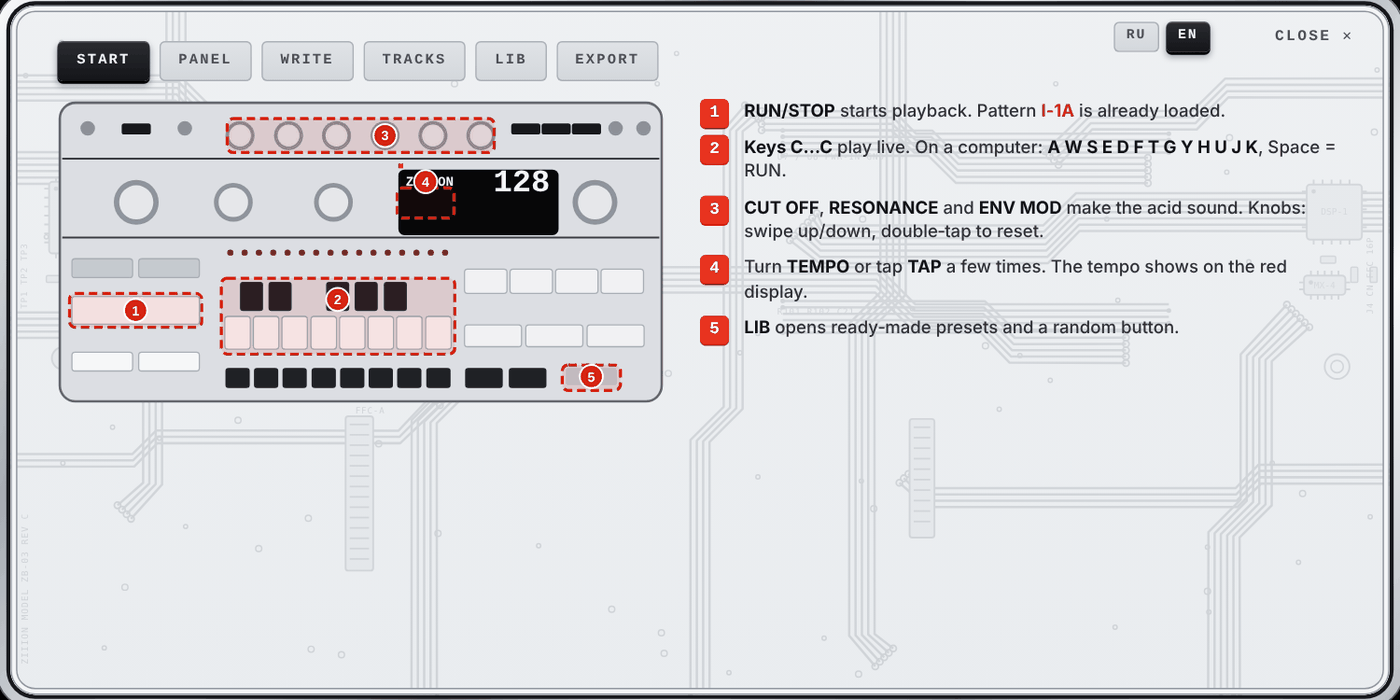
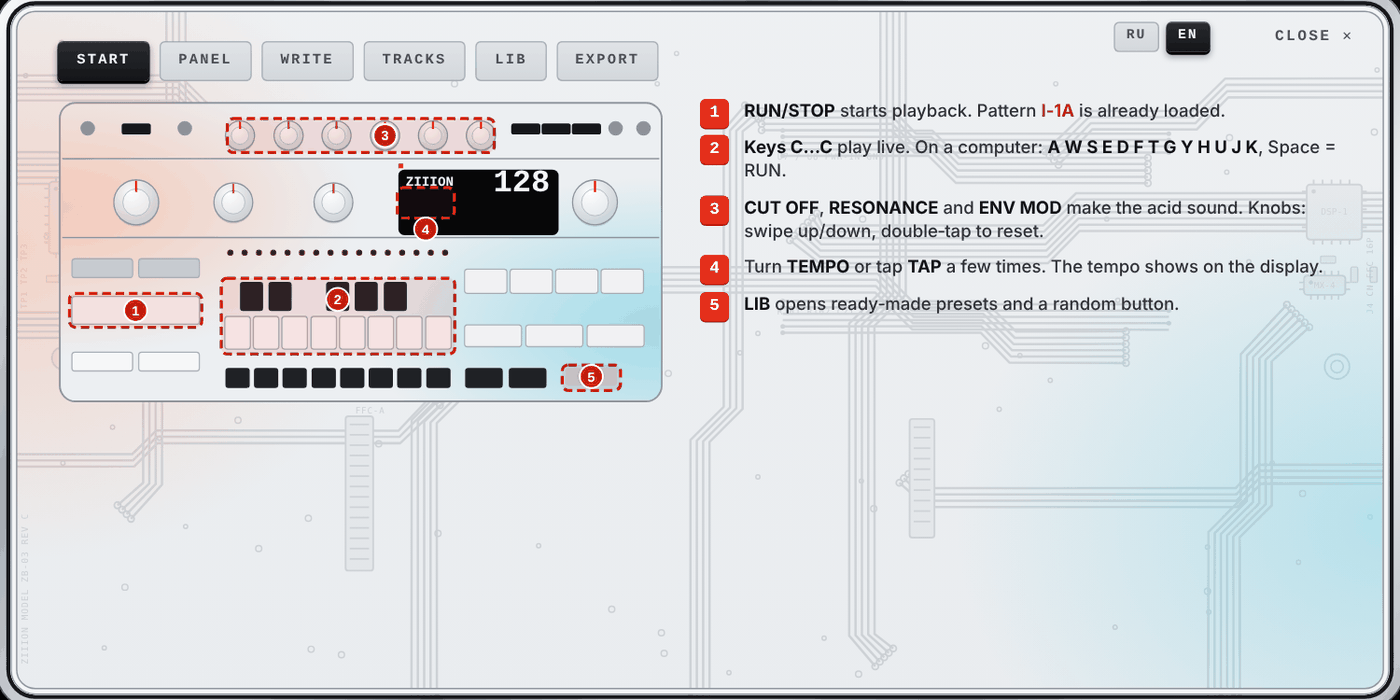
Add files via upload

Changed region(s): [[0.0, 0.12, 0.8293, 0.6], [0.7986, 0.48, 1.0, 0.99], [0.8907, 0.36, 0.9521, 0.39]]

diff --git a/index.html b/index.html
@@ -12,7 +12,7 @@
 <style>
 :root{--ink:#1d1f24;--ink2:#4a4f58;--line:#8d939c;--red:#e8321e;--led-off:#b9bdc4;
   --mono:ui-monospace,"SF Mono",Menlo,Consolas,"Courier New",monospace;--sans:"Helvetica Neue",Helvetica,Arial,sans-serif;
-  --pcb:none;--sheet:linear-gradient(rgba(240,242,244,.82),rgba(234,237,240,.82))}
+  --pcb:none;--sheet:radial-gradient(ellipse 40% 65% at 0% 35%,rgba(255,150,105,.3),rgba(255,150,105,0) 70%),radial-gradient(ellipse 45% 70% at 100% 75%,rgba(80,200,225,.34),rgba(80,200,225,0) 70%),linear-gradient(rgba(240,242,244,.8),rgba(234,237,240,.8))}
 *{box-sizing:border-box;-webkit-tap-highlight-color:transparent}
 html,body{margin:0;height:100%;background:#0b0c0f;overflow:hidden;overscroll-behavior:none;touch-action:none;
   user-select:none;-webkit-user-select:none;-webkit-touch-callout:none;font-family:var(--sans)}
@@ -45,7 +45,7 @@ html,body{margin:0;height:100%;background:#0b0c0f;overflow:hidden;overscroll-beh
 
 /* labels: technical mono, with a halo so the board never swallows them */
 .lab{position:absolute;white-space:nowrap;font:600 8.5px/1 var(--mono);letter-spacing:.06em;color:var(--ink);text-transform:uppercase;
-  pointer-events:none;transform:translate(-50%,-50%);text-shadow:0 0 2px #e6e9ec,0 0 2px #e6e9ec,0 0 4px #e6e9ec,0 0 6px #e6e9ec}
+  pointer-events:none;transform:translate(-50%,-50%);text-shadow:0 0 2px #eef0f3,0 0 2px #eef0f3,0 0 3px #eef0f3,0 0 4px #eef0f3,0 0 6px #eef0f3,0 0 8px #eef0f3}
 .lab.sm{font-size:8px;letter-spacing:.04em}
 .lab.lg{font-size:10px}
 .brk{position:absolute;border:1px solid var(--ink2);border-bottom:none;height:5px;pointer-events:none}
@@ -55,6 +55,11 @@ html,body{margin:0;height:100%;background:#0b0c0f;overflow:hidden;overscroll-beh
   box-shadow:0 0 0 2px #c3c7cd,0 0 0 3px #7e848d,0 3px 8px rgba(30,36,46,.35),inset 0 0 12px rgba(0,0,0,.9)}
 .dmglass{position:absolute;inset:0;border-radius:10px;
   background:linear-gradient(155deg,rgba(255,255,255,.16) 0%,rgba(255,255,255,0) 34%),linear-gradient(0deg,rgba(255,255,255,.04),rgba(255,255,255,0) 40%)}
+/* coloured edge light */
+#chassis::before{content:"";position:absolute;inset:0;pointer-events:none;border-radius:inherit;
+  background:radial-gradient(ellipse 45% 70% at 0% 35%,rgba(255,150,105,.38),rgba(255,150,105,0) 70%),
+    radial-gradient(ellipse 50% 75% at 100% 70%,rgba(80,200,225,.4),rgba(80,200,225,0) 70%),
+    radial-gradient(ellipse 30% 40% at 70% 0%,rgba(255,170,190,.22),rgba(255,170,190,0) 70%)}
 /* LEDs: small round dots, red when lit */
 .led{position:absolute;width:7px;height:7px;margin:-3.5px 0 0 -3.5px;border-radius:50%;background:var(--led-off);
   box-shadow:inset 0 0 0 1px #9fa5ad,0 0 0 2.5px rgba(232,235,238,.92)}
@@ -85,6 +90,14 @@ html,body{margin:0;height:100%;background:#0b0c0f;overflow:hidden;overscroll-beh
 .kgloss{position:absolute;inset:0;border-radius:50%;pointer-events:none;
   background:radial-gradient(ellipse 50% 30% at 36% 19%,rgba(255,255,255,.55),rgba(255,255,255,0) 70%)}
 .knob.active .kshadow{transform:translate(4%,7%)}
+/* glass knobs */
+.kbase{background:radial-gradient(circle,rgba(255,255,255,.0) 0,rgba(255,255,255,.0) 86%,rgba(120,130,142,.45) 92%,rgba(255,255,255,.7) 97%,rgba(0,0,0,0) 100%)}
+.kshadow{background:radial-gradient(circle,rgba(60,70,84,.2) 55%,rgba(0,0,0,0) 74%)}
+.kbody{background:radial-gradient(circle at 38% 28%,rgba(255,255,255,.75) 0%,rgba(236,240,244,.42) 45%,rgba(206,214,222,.38) 100%);
+  box-shadow:0 2px 5px rgba(50,60,72,.3),0 0 0 1px rgba(130,140,152,.85),inset 0 0 0 2px rgba(255,255,255,.75),inset 0 -5px 8px rgba(150,170,190,.35)}
+.kcap{inset:19%;background:radial-gradient(circle at 50% 50%,rgba(255,255,255,.1) 0 38%,rgba(255,255,255,.55) 40%,rgba(200,210,220,.3) 62%,rgba(255,255,255,.65) 100%);
+  box-shadow:inset 0 0 0 1px rgba(255,255,255,.9),inset 0 0 0 3px rgba(150,162,176,.28),0 1px 2px rgba(50,60,72,.3)}
+.kind{top:1%;width:5.5%;height:26%;background:linear-gradient(var(--red),#c82612)}
 /* buttons: flat matte pads */
 .btn{position:absolute;border-radius:7px;touch-action:none;cursor:pointer;display:flex;align-items:center;justify-content:center;
   font:700 12px/1 var(--mono);letter-spacing:.04em;color:var(--ink);
@@ -112,6 +125,12 @@ html,body{margin:0;height:100%;background:#0b0c0f;overflow:hidden;overscroll-beh
 .wkey.down{transform:translateY(3px);box-shadow:0 1px 0 #a4aab2,inset 0 0 0 1px #9aa0a8}
 .bkey.down{transform:translateY(3px);box-shadow:0 1px 0 #000,inset 0 0 0 1px #3a3d44}
 .slot{position:absolute;border-radius:6px;background:#cdd1d6;box-shadow:inset 0 1px 2px rgba(50,56,66,.35);pointer-events:none}
+
+/* contrast pass: light pads read clearly on the coloured sheet */
+.btn:not(.dark):not(.grey){background:linear-gradient(180deg,rgba(255,255,255,.95) 0%,rgba(244,246,248,.9) 55%,rgba(226,230,234,.9) 100%);
+  box-shadow:0 2px 0 #8d949d,0 4px 7px rgba(40,50,64,.34),inset 0 0 0 1px #8f969f,inset 0 1px 0 #fff}
+.btn:not(.dark):not(.grey).down{box-shadow:0 .5px 0 #8d949d,inset 0 0 0 1px #7f8690,inset 0 2px 4px rgba(40,50,64,.22)}
+.wkey{box-shadow:0 3px 0 #8d949d,0 5px 8px rgba(40,50,64,.3),inset 0 0 0 1px #9aa1aa}
 /* jacks & switches */
 .jack{position:absolute;width:24px;height:24px;margin:-12px 0 0 -12px;border-radius:50%;
   background:radial-gradient(circle at 38% 30%,#fbfbfc,#d4d7dc 60%,#aeb4bb);
@@ -186,7 +205,7 @@ html.lite .knob.st .krot{transition:none}
 #lib .gh{font:800 10px/1 var(--mono);letter-spacing:.24em;color:#4a4f58;margin:10px 0 7px}
 #lib .gr{display:grid;grid-template-columns:repeat(3,1fr);gap:8px}
 #lib .row{position:relative;display:flex;align-items:center;gap:10px;padding:8px 11px;border-radius:5px;cursor:pointer;
- background:linear-gradient(180deg,#f8f9fa,#eceef0);box-shadow:0 2px 0 #a8aeb6,0 3px 4px rgba(0,0,0,.25),inset 0 1px 0 rgba(255,255,255,.8)}
+ background:linear-gradient(180deg,rgba(255,255,255,.78),rgba(240,244,248,.55));box-shadow:0 0 0 1px rgba(255,255,255,.85),0 2px 6px rgba(60,72,88,.28),inset 0 1px 0 #fff,inset 0 -6px 10px rgba(150,170,190,.18)}
 #lib .row:active{transform:translateY(1px)}
 #lib .row.cur{background:linear-gradient(180deg,#2a2c31,#141518);box-shadow:0 2px 0 #000,0 3px 5px rgba(0,0,0,.4),inset 0 1px 0 rgba(255,255,255,.2)}
 #lib .rt{flex:1;min-width:0}
@@ -201,9 +220,12 @@ html.lite .knob.st .krot{transition:none}
 #lib .row.cur .mini i{background:#c9cbd6}#lib .row.cur .mini i.a{background:#ff6a52}#lib .row.cur .mini i.r{background:#6a6d80}#lib .row.cur .mini i.t{background:#9395a6}
 #lib .row u{text-decoration:none;color:#5f616a;font:400 18px/1 Arial;padding:4px 2px 4px 6px}
 #lib .row.cur u{color:#c9cbd6}
-#lib .ln{flex:1;min-width:0;padding:9px 11px;border-radius:4px;border:0;background:#a0a3ab;color:#1d1f24;font:700 16px/1.2 var(--sans);
- letter-spacing:.06em;box-shadow:inset 0 2px 4px rgba(0,0,0,.4),0 1px 0 rgba(255,255,255,.6);outline:none}
-#lib .ln::placeholder{color:#5f616a}
+#lib .ln{flex:1;min-width:0;padding:9px 11px;border-radius:4px;border:0;background:rgba(255,255,255,.55);color:#1d1f24;font:700 16px/1.2 var(--mono);
+ letter-spacing:.08em;box-shadow:0 0 0 1px rgba(143,149,158,.8),inset 0 2px 4px rgba(70,84,100,.22),0 1px 0 #fff;outline:none}
+#lib .ln::placeholder{color:#7b818b}
+#lib .lb,#lib .tg{background:linear-gradient(180deg,rgba(255,255,255,.85),rgba(236,241,246,.6));box-shadow:0 0 0 1px rgba(255,255,255,.85),0 2px 6px rgba(60,72,88,.3),inset 0 1px 0 #fff,inset 0 -5px 8px rgba(150,170,190,.18)}
+#lib .lb:active{box-shadow:0 0 0 1px rgba(255,255,255,.85),0 1px 2px rgba(60,72,88,.3),inset 0 1px 3px rgba(60,72,88,.25)}
+#lib .tg.on,#lib .lb.done{background:linear-gradient(180deg,#2a2c31,#141518);box-shadow:0 2px 6px rgba(0,0,0,.4),inset 0 1px 0 rgba(255,255,255,.2)}
 /* tutorial */
 #help .tabs{display:flex;gap:7px;margin:0 0 14px;padding-right:110px}
 #help .tabs span{padding:9px 14px;border-radius:4px;background:linear-gradient(180deg,#e0e3e7,#d3d7dc);color:#4a4f58;font:800 10.5px/1 var(--mono);letter-spacing:.14em;
@@ -1342,13 +1364,15 @@ const helpEl = el('', stage, '', '', 'div'); helpEl.id = 'help';
 /* ---- tutorial (tabs, schematic of the panel, mode knob, example pattern) ---- */
 const SVGNS = 'http://www.w3.org/2000/svg';
 function schem(marks) {
-  let h = '<svg viewBox="0 0 1000 500" class="schem"><rect x="4" y="4" width="992" height="492" rx="26" fill="#dcdee3" stroke="#62656d" stroke-width="4"/>' +
-    '<line x1="8" x2="992" y1="96" y2="96" stroke="#3b3c42" stroke-width="3"/><line x1="8" x2="992" y1="226" y2="226" stroke="#3b3c42" stroke-width="3"/>';
+  let h = '<svg viewBox="0 0 1000 500" class="schem"><defs><radialGradient id="sgw" cx="0" cy=".35" r=".5"><stop offset="0" stop-color="#ff9669" stop-opacity=".45"/><stop offset="1" stop-color="#ff9669" stop-opacity="0"/></radialGradient><radialGradient id="sgc" cx="1" cy=".75" r=".5"><stop offset="0" stop-color="#50c8e1" stop-opacity=".5"/><stop offset="1" stop-color="#50c8e1" stop-opacity="0"/></radialGradient><radialGradient id="sgk" cx=".38" cy=".28" r=".85"><stop offset="0" stop-color="#fff" stop-opacity=".95"/><stop offset="1" stop-color="#c8d0d8" stop-opacity=".6"/></radialGradient></defs>' +
+    '<rect x="4" y="4" width="992" height="492" rx="26" fill="#eceff2" stroke="#8f959e" stroke-width="3"/><rect x="4" y="4" width="992" height="492" rx="26" fill="url(#sgw)"/><rect x="4" y="4" width="992" height="492" rx="26" fill="url(#sgc)"/>' +
+    '<line x1="8" x2="992" y1="96" y2="96" stroke="#8d939c" stroke-width="2"/><line x1="8" x2="992" y1="226" y2="226" stroke="#8d939c" stroke-width="2"/>';
+  const gk = (x, y, r) => '<circle cx="' + x + '" cy="' + (y + 3) + '" r="' + r + '" fill="#3c4654" opacity=".18"/><circle cx="' + x + '" cy="' + y + '" r="' + r + '" fill="url(#sgk)" stroke="#8f959e" stroke-width="2"/><circle cx="' + x + '" cy="' + y + '" r="' + (r * .6) + '" fill="#fff" fill-opacity=".45" stroke="#b4bcc6" stroke-width="1.5"/><rect x="' + (x - 1.8) + '" y="' + (y - r * .96) + '" width="3.6" height="' + (r * .5) + '" fill="#e8321e"/>';
   const circ = (x, y, r, f) => '<circle cx="' + x + '" cy="' + y + '" r="' + r + '" fill="' + (f || '#17181b') + '"/>';
-  [301, 381, 460, 540, 619, 698].forEach(x => { h += circ(x, 58, 24, '#8f929b') + circ(x, 58, 18, '#e6e7ea'); });
+  [301, 381, 460, 540, 619, 698].forEach(x => { h += gk(x, 58, 24); });
   [130, 772, 822, 872].forEach(x => { h += '<rect x="' + (x - 24) + '" y="38" width="48" height="18" rx="4" fill="#17181b"/>'; });
   [50, 210, 920, 966].forEach(x => { h += circ(x, 46, 12, '#8d909a'); });
-  [[130, 168, 37], [290, 168, 32], [455, 168, 32], [886, 168, 37]].forEach(k => { h += circ(k[0], k[1], k[2], '#8f929b') + circ(k[0], k[1], k[2] * 0.76, '#e6e7ea'); });
+  [[130, 168, 37], [290, 168, 32], [455, 168, 32], [886, 168, 37]].forEach(k => { h += gk(k[0], k[1], k[2]); });
   h += '<rect x="562" y="114" width="264" height="108" rx="10" fill="#070708"/><text x="574" y="140" font-family="Courier New,monospace" font-weight="700" font-size="22" fill="#f4f5f7">ZIIION</text><text x="812" y="150" text-anchor="end" font-family="Courier New,monospace" font-weight="700" font-size="52" fill="#f4f5f7">128</text><rect x="562" y="104" width="8" height="8" fill="#e8321e"/>';
   [[24, 261, 100, 31, '#c5cad0'], [134, 261, 100, 31, '#c5cad0'], [24, 323, 210, 46, '#f6f7f8'], [24, 415, 100, 31, '#f6f7f8'], [134, 415, 100, 31, '#f6f7f8']]
     .forEach(r => { h += '<rect x="' + r[0] + '" y="' + r[1] + '" width="' + r[2] + '" height="' + r[3] + '" rx="5" fill="' + r[4] + '" stroke="#a8aeb6" stroke-width="2"/>'; });
@@ -1393,12 +1417,12 @@ function stepStrip(str) {
 }
 const HELP_PAGES = [
   [() => T('СТАРТ', 'START'), () =>
-    '<div class="fig">' + schem([{ x: 129, y: 346, n: 1, box: [20, 318, 218, 56] }, { x: 462, y: 328, n: 2, box: [270, 293, 385, 125] }, { x: 540, y: 58, n: 3, box: [280, 30, 440, 56] }, { x: 607, y: 134, n: 4, box: [560, 144, 94, 50] }, { x: 880, y: 455, n: 5, box: [832, 436, 96, 42] }]) + '</div>' +
+    '<div class="fig">' + schem([{ x: 129, y: 346, n: 1, box: [20, 318, 218, 56] }, { x: 462, y: 328, n: 2, box: [270, 293, 385, 125] }, { x: 540, y: 58, n: 3, box: [280, 30, 440, 56] }, { x: 607, y: 212, n: 4, box: [560, 144, 94, 50] }, { x: 880, y: 455, n: 5, box: [832, 436, 96, 42] }]) + '</div>' +
     '<ol class="steps">' +
     '<li>' + T('<b>RUN/STOP</b> — запуск. Паттерн <i>I‑1A</i> уже записан.', '<b>RUN/STOP</b> starts playback. Pattern <i>I‑1A</i> is already loaded.') + '</li>' +
     '<li>' + T('<b>Клавиши C…C</b> играют вживую. На Mac: <b>A W S E D F T G Y H U J K</b>, пробел — RUN.', '<b>Keys C…C</b> play live. On a computer: <b>A W S E D F T G Y H U J K</b>, Space = RUN.') + '</li>' +
     '<li>' + T('<b>CUT OFF</b>, <b>RESONANCE</b>, <b>ENV MOD</b> — основа кислотного звука. Ручки: свайп вверх/вниз, двойной тап — сброс.', '<b>CUT OFF</b>, <b>RESONANCE</b> and <b>ENV MOD</b> make the acid sound. Knobs: swipe up/down, double‑tap to reset.') + '</li>' +
-    '<li>' + T('<b>TEMPO</b> или несколько тапов по <b>TAP</b>. Темп виден на красном дисплее.', 'Turn <b>TEMPO</b> or tap <b>TAP</b> a few times. The tempo shows on the red display.') + '</li>' +
+    '<li>' + T('<b>TEMPO</b> или несколько тапов по <b>TAP</b>. Темп виден на дисплее.', 'Turn <b>TEMPO</b> or tap <b>TAP</b> a few times. The tempo shows on the display.') + '</li>' +
     '<li>' + T('<b>LIB</b> — готовые пресеты и рандом.', '<b>LIB</b> opens ready‑made presets and a random button.') + '</li></ol>'],
   [() => T('ПАНЕЛЬ', 'PANEL'), () =>
     '<div class="fig">' + schem([{ x: 130, y: 20, n: 1 }, { x: 460, y: 20, n: 2 }, { x: 822, y: 20, n: 3 }, { x: 290, y: 118, n: 4, box: [254, 130, 72, 76] }, { x: 455, y: 118, n: 5, box: [419, 130, 72, 76] }, { x: 886, y: 118, n: 6 }, { x: 129, y: 246, n: 7, box: [20, 256, 218, 40] }, { x: 462, y: 428, n: 8, box: [270, 436, 385, 42] }, { x: 810, y: 342, n: 9 }]) + '</div>' +
@@ -1911,6 +1935,11 @@ window.addEventListener('keyup', e => {
   tx(12, 220, 'TP1  TP2  TP3', -90); tx(988, 224, 'J4  CN-FFC 16P', -90);
   tx(556, 224, 'R101  R102  C21  C22  L3', 0); tx(556, 112, 'U7 / U8   PWR-IN   GND', 0);
   tx(330, 224, '+ - + -', 0); tx(250, 296, 'FFC-A', 0);
+  (function dip(x, y, w, h, n) {
+    for (let i = 0; i < n; i++) { const yy = y + 8 + i * ((h - 16) / (n - 1)); svg += '<rect x="' + (x - 6) + '" y="' + (yy - 1.5) + '" width="7" height="3" fill="#9aa0a8"/><rect x="' + (x + w - 1) + '" y="' + (yy - 1.5) + '" width="7" height="3" fill="#9aa0a8"/>'; }
+    svg += '<rect x="' + (x + 2) + '" y="' + (y + 3) + '" width="' + w + '" height="' + h + '" rx="3" fill="#000" opacity=".18"/><rect x="' + x + '" y="' + y + '" width="' + w + '" height="' + h + '" rx="3" fill="#2a2d33" stroke="#14161a"/>';
+    svg += '<circle cx="' + (x + w / 2) + '" cy="' + (y + 2) + '" r="3" fill="#14161a"/><text transform="translate(' + (x + w / 2 + 3) + ' ' + (y + h / 2) + ') rotate(90)" text-anchor="middle" font-size="6.5" font-family="ui-monospace,Menlo,monospace" fill="#aab0b8">ZN-2800  SEQ/DSP</text>';
+  })(200, 118, 26, 96, 14);
   const pcb = document.createElementNS('http://www.w3.org/2000/svg', 'svg');
   pcb.setAttribute('viewBox', '0 0 1000 500'); pcb.setAttribute('class', 'pcb'); pcb.innerHTML = svg;
   chassis.insertBefore(pcb, chassis.firstChild);

diff --git a/src/js/80-tutorial.js b/src/js/80-tutorial.js
@@ -1,13 +1,15 @@
 /* ---- tutorial (tabs, schematic of the panel, mode knob, example pattern) ---- */
 const SVGNS = 'http://www.w3.org/2000/svg';
 function schem(marks) {
-  let h = '<svg viewBox="0 0 1000 500" class="schem"><rect x="4" y="4" width="992" height="492" rx="26" fill="#dcdee3" stroke="#62656d" stroke-width="4"/>' +
-    '<line x1="8" x2="992" y1="96" y2="96" stroke="#3b3c42" stroke-width="3"/><line x1="8" x2="992" y1="226" y2="226" stroke="#3b3c42" stroke-width="3"/>';
+  let h = '<svg viewBox="0 0 1000 500" class="schem"><defs><radialGradient id="sgw" cx="0" cy=".35" r=".5"><stop offset="0" stop-color="#ff9669" stop-opacity=".45"/><stop offset="1" stop-color="#ff9669" stop-opacity="0"/></radialGradient><radialGradient id="sgc" cx="1" cy=".75" r=".5"><stop offset="0" stop-color="#50c8e1" stop-opacity=".5"/><stop offset="1" stop-color="#50c8e1" stop-opacity="0"/></radialGradient><radialGradient id="sgk" cx=".38" cy=".28" r=".85"><stop offset="0" stop-color="#fff" stop-opacity=".95"/><stop offset="1" stop-color="#c8d0d8" stop-opacity=".6"/></radialGradient></defs>' +
+    '<rect x="4" y="4" width="992" height="492" rx="26" fill="#eceff2" stroke="#8f959e" stroke-width="3"/><rect x="4" y="4" width="992" height="492" rx="26" fill="url(#sgw)"/><rect x="4" y="4" width="992" height="492" rx="26" fill="url(#sgc)"/>' +
+    '<line x1="8" x2="992" y1="96" y2="96" stroke="#8d939c" stroke-width="2"/><line x1="8" x2="992" y1="226" y2="226" stroke="#8d939c" stroke-width="2"/>';
+  const gk = (x, y, r) => '<circle cx="' + x + '" cy="' + (y + 3) + '" r="' + r + '" fill="#3c4654" opacity=".18"/><circle cx="' + x + '" cy="' + y + '" r="' + r + '" fill="url(#sgk)" stroke="#8f959e" stroke-width="2"/><circle cx="' + x + '" cy="' + y + '" r="' + (r * .6) + '" fill="#fff" fill-opacity=".45" stroke="#b4bcc6" stroke-width="1.5"/><rect x="' + (x - 1.8) + '" y="' + (y - r * .96) + '" width="3.6" height="' + (r * .5) + '" fill="#e8321e"/>';
   const circ = (x, y, r, f) => '<circle cx="' + x + '" cy="' + y + '" r="' + r + '" fill="' + (f || '#17181b') + '"/>';
-  [301, 381, 460, 540, 619, 698].forEach(x => { h += circ(x, 58, 24, '#8f929b') + circ(x, 58, 18, '#e6e7ea'); });
+  [301, 381, 460, 540, 619, 698].forEach(x => { h += gk(x, 58, 24); });
   [130, 772, 822, 872].forEach(x => { h += '<rect x="' + (x - 24) + '" y="38" width="48" height="18" rx="4" fill="#17181b"/>'; });
   [50, 210, 920, 966].forEach(x => { h += circ(x, 46, 12, '#8d909a'); });
-  [[130, 168, 37], [290, 168, 32], [455, 168, 32], [886, 168, 37]].forEach(k => { h += circ(k[0], k[1], k[2], '#8f929b') + circ(k[0], k[1], k[2] * 0.76, '#e6e7ea'); });
+  [[130, 168, 37], [290, 168, 32], [455, 168, 32], [886, 168, 37]].forEach(k => { h += gk(k[0], k[1], k[2]); });
   h += '<rect x="562" y="114" width="264" height="108" rx="10" fill="#070708"/><text x="574" y="140" font-family="Courier New,monospace" font-weight="700" font-size="22" fill="#f4f5f7">ZIIION</text><text x="812" y="150" text-anchor="end" font-family="Courier New,monospace" font-weight="700" font-size="52" fill="#f4f5f7">128</text><rect x="562" y="104" width="8" height="8" fill="#e8321e"/>';
   [[24, 261, 100, 31, '#c5cad0'], [134, 261, 100, 31, '#c5cad0'], [24, 323, 210, 46, '#f6f7f8'], [24, 415, 100, 31, '#f6f7f8'], [134, 415, 100, 31, '#f6f7f8']]
     .forEach(r => { h += '<rect x="' + r[0] + '" y="' + r[1] + '" width="' + r[2] + '" height="' + r[3] + '" rx="5" fill="' + r[4] + '" stroke="#a8aeb6" stroke-width="2"/>'; });
@@ -52,12 +54,12 @@ function stepStrip(str) {
 }
 const HELP_PAGES = [
   [() => T('СТАРТ', 'START'), () =>
-    '<div class="fig">' + schem([{ x: 129, y: 346, n: 1, box: [20, 318, 218, 56] }, { x: 462, y: 328, n: 2, box: [270, 293, 385, 125] }, { x: 540, y: 58, n: 3, box: [280, 30, 440, 56] }, { x: 607, y: 134, n: 4, box: [560, 144, 94, 50] }, { x: 880, y: 455, n: 5, box: [832, 436, 96, 42] }]) + '</div>' +
+    '<div class="fig">' + schem([{ x: 129, y: 346, n: 1, box: [20, 318, 218, 56] }, { x: 462, y: 328, n: 2, box: [270, 293, 385, 125] }, { x: 540, y: 58, n: 3, box: [280, 30, 440, 56] }, { x: 607, y: 212, n: 4, box: [560, 144, 94, 50] }, { x: 880, y: 455, n: 5, box: [832, 436, 96, 42] }]) + '</div>' +
     '<ol class="steps">' +
     '<li>' + T('<b>RUN/STOP</b> — запуск. Паттерн <i>I‑1A</i> уже записан.', '<b>RUN/STOP</b> starts playback. Pattern <i>I‑1A</i> is already loaded.') + '</li>' +
     '<li>' + T('<b>Клавиши C…C</b> играют вживую. На Mac: <b>A W S E D F T G Y H U J K</b>, пробел — RUN.', '<b>Keys C…C</b> play live. On a computer: <b>A W S E D F T G Y H U J K</b>, Space = RUN.') + '</li>' +
     '<li>' + T('<b>CUT OFF</b>, <b>RESONANCE</b>, <b>ENV MOD</b> — основа кислотного звука. Ручки: свайп вверх/вниз, двойной тап — сброс.', '<b>CUT OFF</b>, <b>RESONANCE</b> and <b>ENV MOD</b> make the acid sound. Knobs: swipe up/down, double‑tap to reset.') + '</li>' +
-    '<li>' + T('<b>TEMPO</b> или несколько тапов по <b>TAP</b>. Темп виден на красном дисплее.', 'Turn <b>TEMPO</b> or tap <b>TAP</b> a few times. The tempo shows on the red display.') + '</li>' +
+    '<li>' + T('<b>TEMPO</b> или несколько тапов по <b>TAP</b>. Темп виден на дисплее.', 'Turn <b>TEMPO</b> or tap <b>TAP</b> a few times. The tempo shows on the display.') + '</li>' +
     '<li>' + T('<b>LIB</b> — готовые пресеты и рандом.', '<b>LIB</b> opens ready‑made presets and a random button.') + '</li></ol>'],
   [() => T('ПАНЕЛЬ', 'PANEL'), () =>
     '<div class="fig">' + schem([{ x: 130, y: 20, n: 1 }, { x: 460, y: 20, n: 2 }, { x: 822, y: 20, n: 3 }, { x: 290, y: 118, n: 4, box: [254, 130, 72, 76] }, { x: 455, y: 118, n: 5, box: [419, 130, 72, 76] }, { x: 886, y: 118, n: 6 }, { x: 129, y: 246, n: 7, box: [20, 256, 218, 40] }, { x: 462, y: 428, n: 8, box: [270, 436, 385, 42] }, { x: 810, y: 342, n: 9 }]) + '</div>' +

diff --git a/src/css/10-base.css b/src/css/10-base.css
@@ -1,6 +1,6 @@
 :root{--ink:#1d1f24;--ink2:#4a4f58;--line:#8d939c;--red:#e8321e;--led-off:#b9bdc4;
   --mono:ui-monospace,"SF Mono",Menlo,Consolas,"Courier New",monospace;--sans:"Helvetica Neue",Helvetica,Arial,sans-serif;
-  --pcb:none;--sheet:linear-gradient(rgba(240,242,244,.82),rgba(234,237,240,.82))}
+  --pcb:none;--sheet:radial-gradient(ellipse 40% 65% at 0% 35%,rgba(255,150,105,.3),rgba(255,150,105,0) 70%),radial-gradient(ellipse 45% 70% at 100% 75%,rgba(80,200,225,.34),rgba(80,200,225,0) 70%),linear-gradient(rgba(240,242,244,.8),rgba(234,237,240,.8))}
 *{box-sizing:border-box;-webkit-tap-highlight-color:transparent}
 html,body{margin:0;height:100%;background:#0b0c0f;overflow:hidden;overscroll-behavior:none;touch-action:none;
   user-select:none;-webkit-user-select:none;-webkit-touch-callout:none;font-family:var(--sans)}
@@ -33,7 +33,7 @@ html,body{margin:0;height:100%;background:#0b0c0f;overflow:hidden;overscroll-beh
 
 /* labels: technical mono, with a halo so the board never swallows them */
 .lab{position:absolute;white-space:nowrap;font:600 8.5px/1 var(--mono);letter-spacing:.06em;color:var(--ink);text-transform:uppercase;
-  pointer-events:none;transform:translate(-50%,-50%);text-shadow:0 0 2px #e6e9ec,0 0 2px #e6e9ec,0 0 4px #e6e9ec,0 0 6px #e6e9ec}
+  pointer-events:none;transform:translate(-50%,-50%);text-shadow:0 0 2px #eef0f3,0 0 2px #eef0f3,0 0 3px #eef0f3,0 0 4px #eef0f3,0 0 6px #eef0f3,0 0 8px #eef0f3}
 .lab.sm{font-size:8px;letter-spacing:.04em}
 .lab.lg{font-size:10px}
 .brk{position:absolute;border:1px solid var(--ink2);border-bottom:none;height:5px;pointer-events:none}
@@ -43,3 +43,8 @@ html,body{margin:0;height:100%;background:#0b0c0f;overflow:hidden;overscroll-beh
   box-shadow:0 0 0 2px #c3c7cd,0 0 0 3px #7e848d,0 3px 8px rgba(30,36,46,.35),inset 0 0 12px rgba(0,0,0,.9)}
 .dmglass{position:absolute;inset:0;border-radius:10px;
   background:linear-gradient(155deg,rgba(255,255,255,.16) 0%,rgba(255,255,255,0) 34%),linear-gradient(0deg,rgba(255,255,255,.04),rgba(255,255,255,0) 40%)}
+/* coloured edge light */
+#chassis::before{content:"";position:absolute;inset:0;pointer-events:none;border-radius:inherit;
+  background:radial-gradient(ellipse 45% 70% at 0% 35%,rgba(255,150,105,.38),rgba(255,150,105,0) 70%),
+    radial-gradient(ellipse 50% 75% at 100% 70%,rgba(80,200,225,.4),rgba(80,200,225,0) 70%),
+    radial-gradient(ellipse 30% 40% at 70% 0%,rgba(255,170,190,.22),rgba(255,170,190,0) 70%)}

diff --git a/src/css/80-library.css b/src/css/80-library.css
@@ -19,7 +19,7 @@
 #lib .gh{font:800 10px/1 var(--mono);letter-spacing:.24em;color:#4a4f58;margin:10px 0 7px}
 #lib .gr{display:grid;grid-template-columns:repeat(3,1fr);gap:8px}
 #lib .row{position:relative;display:flex;align-items:center;gap:10px;padding:8px 11px;border-radius:5px;cursor:pointer;
- background:linear-gradient(180deg,#f8f9fa,#eceef0);box-shadow:0 2px 0 #a8aeb6,0 3px 4px rgba(0,0,0,.25),inset 0 1px 0 rgba(255,255,255,.8)}
+ background:linear-gradient(180deg,rgba(255,255,255,.78),rgba(240,244,248,.55));box-shadow:0 0 0 1px rgba(255,255,255,.85),0 2px 6px rgba(60,72,88,.28),inset 0 1px 0 #fff,inset 0 -6px 10px rgba(150,170,190,.18)}
 #lib .row:active{transform:translateY(1px)}
 #lib .row.cur{background:linear-gradient(180deg,#2a2c31,#141518);box-shadow:0 2px 0 #000,0 3px 5px rgba(0,0,0,.4),inset 0 1px 0 rgba(255,255,255,.2)}
 #lib .rt{flex:1;min-width:0}
@@ -34,6 +34,9 @@
 #lib .row.cur .mini i{background:#c9cbd6}#lib .row.cur .mini i.a{background:#ff6a52}#lib .row.cur .mini i.r{background:#6a6d80}#lib .row.cur .mini i.t{background:#9395a6}
 #lib .row u{text-decoration:none;color:#5f616a;font:400 18px/1 Arial;padding:4px 2px 4px 6px}
 #lib .row.cur u{color:#c9cbd6}
-#lib .ln{flex:1;min-width:0;padding:9px 11px;border-radius:4px;border:0;background:#a0a3ab;color:#1d1f24;font:700 16px/1.2 var(--sans);
- letter-spacing:.06em;box-shadow:inset 0 2px 4px rgba(0,0,0,.4),0 1px 0 rgba(255,255,255,.6);outline:none}
-#lib .ln::placeholder{color:#5f616a}
+#lib .ln{flex:1;min-width:0;padding:9px 11px;border-radius:4px;border:0;background:rgba(255,255,255,.55);color:#1d1f24;font:700 16px/1.2 var(--mono);
+ letter-spacing:.08em;box-shadow:0 0 0 1px rgba(143,149,158,.8),inset 0 2px 4px rgba(70,84,100,.22),0 1px 0 #fff;outline:none}
+#lib .ln::placeholder{color:#7b818b}
+#lib .lb,#lib .tg{background:linear-gradient(180deg,rgba(255,255,255,.85),rgba(236,241,246,.6));box-shadow:0 0 0 1px rgba(255,255,255,.85),0 2px 6px rgba(60,72,88,.3),inset 0 1px 0 #fff,inset 0 -5px 8px rgba(150,170,190,.18)}
+#lib .lb:active{box-shadow:0 0 0 1px rgba(255,255,255,.85),0 1px 2px rgba(60,72,88,.3),inset 0 1px 3px rgba(60,72,88,.25)}
+#lib .tg.on,#lib .lb.done{background:linear-gradient(180deg,#2a2c31,#141518);box-shadow:0 2px 6px rgba(0,0,0,.4),inset 0 1px 0 rgba(255,255,255,.2)}

diff --git a/src/js/97-pcb-display.js b/src/js/97-pcb-display.js
@@ -70,6 +70,11 @@
   tx(12, 220, 'TP1  TP2  TP3', -90); tx(988, 224, 'J4  CN-FFC 16P', -90);
   tx(556, 224, 'R101  R102  C21  C22  L3', 0); tx(556, 112, 'U7 / U8   PWR-IN   GND', 0);
   tx(330, 224, '+ - + -', 0); tx(250, 296, 'FFC-A', 0);
+  (function dip(x, y, w, h, n) {
+    for (let i = 0; i < n; i++) { const yy = y + 8 + i * ((h - 16) / (n - 1)); svg += '<rect x="' + (x - 6) + '" y="' + (yy - 1.5) + '" width="7" height="3" fill="#9aa0a8"/><rect x="' + (x + w - 1) + '" y="' + (yy - 1.5) + '" width="7" height="3" fill="#9aa0a8"/>'; }
+    svg += '<rect x="' + (x + 2) + '" y="' + (y + 3) + '" width="' + w + '" height="' + h + '" rx="3" fill="#000" opacity=".18"/><rect x="' + x + '" y="' + y + '" width="' + w + '" height="' + h + '" rx="3" fill="#2a2d33" stroke="#14161a"/>';
+    svg += '<circle cx="' + (x + w / 2) + '" cy="' + (y + 2) + '" r="3" fill="#14161a"/><text transform="translate(' + (x + w / 2 + 3) + ' ' + (y + h / 2) + ') rotate(90)" text-anchor="middle" font-size="6.5" font-family="ui-monospace,Menlo,monospace" fill="#aab0b8">ZN-2800  SEQ/DSP</text>';
+  })(200, 118, 26, 96, 14);
   const pcb = document.createElementNS('http://www.w3.org/2000/svg', 'svg');
   pcb.setAttribute('viewBox', '0 0 1000 500'); pcb.setAttribute('class', 'pcb'); pcb.innerHTML = svg;
   chassis.insertBefore(pcb, chassis.firstChild);

diff --git a/src/css/30-knobs.css b/src/css/30-knobs.css
@@ -19,3 +19,11 @@
 .kgloss{position:absolute;inset:0;border-radius:50%;pointer-events:none;
   background:radial-gradient(ellipse 50% 30% at 36% 19%,rgba(255,255,255,.55),rgba(255,255,255,0) 70%)}
 .knob.active .kshadow{transform:translate(4%,7%)}
+/* glass knobs */
+.kbase{background:radial-gradient(circle,rgba(255,255,255,.0) 0,rgba(255,255,255,.0) 86%,rgba(120,130,142,.45) 92%,rgba(255,255,255,.7) 97%,rgba(0,0,0,0) 100%)}
+.kshadow{background:radial-gradient(circle,rgba(60,70,84,.2) 55%,rgba(0,0,0,0) 74%)}
+.kbody{background:radial-gradient(circle at 38% 28%,rgba(255,255,255,.75) 0%,rgba(236,240,244,.42) 45%,rgba(206,214,222,.38) 100%);
+  box-shadow:0 2px 5px rgba(50,60,72,.3),0 0 0 1px rgba(130,140,152,.85),inset 0 0 0 2px rgba(255,255,255,.75),inset 0 -5px 8px rgba(150,170,190,.35)}
+.kcap{inset:19%;background:radial-gradient(circle at 50% 50%,rgba(255,255,255,.1) 0 38%,rgba(255,255,255,.55) 40%,rgba(200,210,220,.3) 62%,rgba(255,255,255,.65) 100%);
+  box-shadow:inset 0 0 0 1px rgba(255,255,255,.9),inset 0 0 0 3px rgba(150,162,176,.28),0 1px 2px rgba(50,60,72,.3)}
+.kind{top:1%;width:5.5%;height:26%;background:linear-gradient(var(--red),#c82612)}

diff --git a/src/css/40-buttons-keys.css b/src/css/40-buttons-keys.css
@@ -25,3 +25,9 @@
 .wkey.down{transform:translateY(3px);box-shadow:0 1px 0 #a4aab2,inset 0 0 0 1px #9aa0a8}
 .bkey.down{transform:translateY(3px);box-shadow:0 1px 0 #000,inset 0 0 0 1px #3a3d44}
 .slot{position:absolute;border-radius:6px;background:#cdd1d6;box-shadow:inset 0 1px 2px rgba(50,56,66,.35);pointer-events:none}
+
+/* contrast pass: light pads read clearly on the coloured sheet */
+.btn:not(.dark):not(.grey){background:linear-gradient(180deg,rgba(255,255,255,.95) 0%,rgba(244,246,248,.9) 55%,rgba(226,230,234,.9) 100%);
+  box-shadow:0 2px 0 #8d949d,0 4px 7px rgba(40,50,64,.34),inset 0 0 0 1px #8f969f,inset 0 1px 0 #fff}
+.btn:not(.dark):not(.grey).down{box-shadow:0 .5px 0 #8d949d,inset 0 0 0 1px #7f8690,inset 0 2px 4px rgba(40,50,64,.22)}
+.wkey{box-shadow:0 3px 0 #8d949d,0 5px 8px rgba(40,50,64,.3),inset 0 0 0 1px #9aa1aa}
